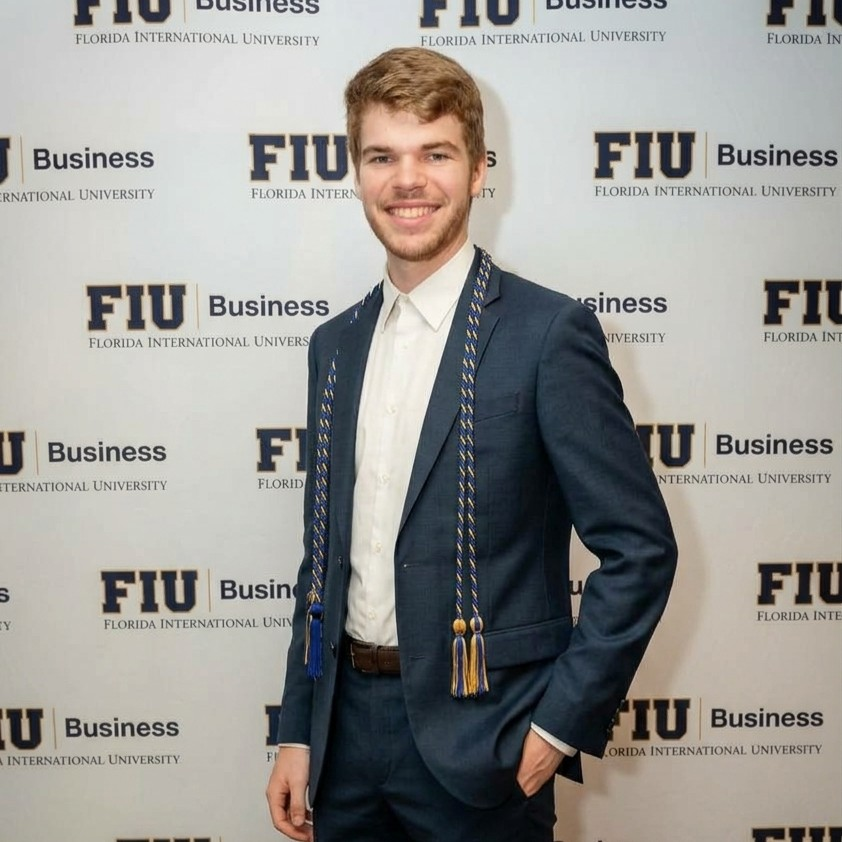
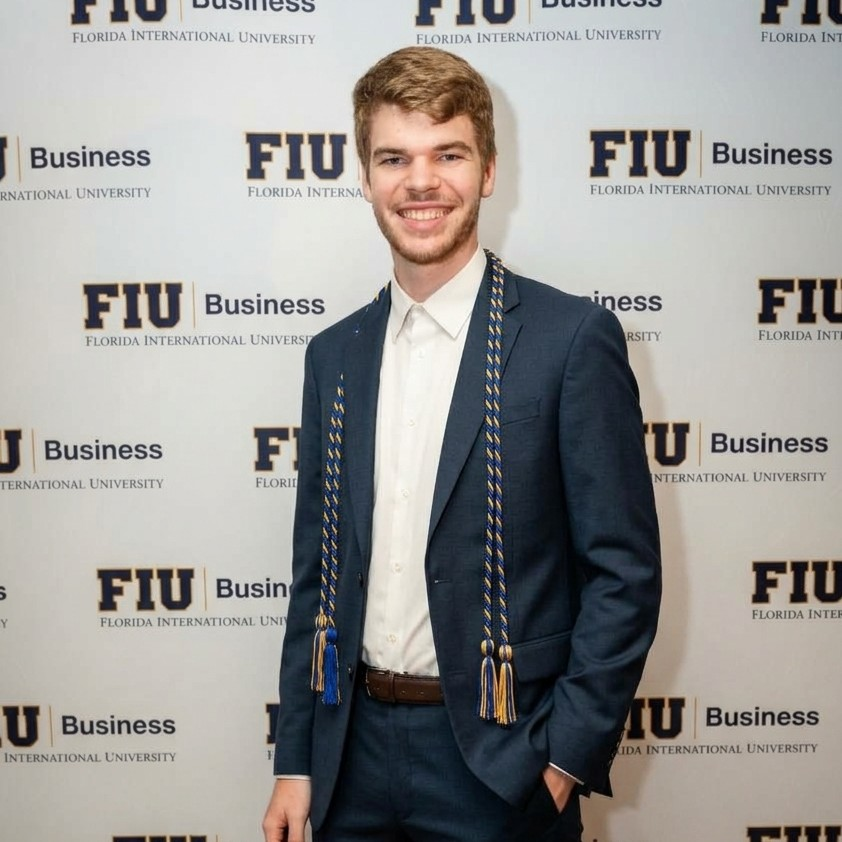
Pciture

diff --git a/education.html b/education.html
@@ -27,7 +27,7 @@
         <p class="deg">B.A. Business Administration and B.A. Education Sciences, May 2023</p>
         <p>Earning both degrees gave me business content and teacher training together.</p>
         <div style="margin-top:auto;padding-top:20px">
-          <div style="aspect-ratio:1/1;overflow:hidden;border-radius:8px"><img src="photos/uf-photo.png" alt="Photo of UF" style="display:block;width:100%;height:100%;object-fit:cover;object-position:center top;border-radius:8px"></div>
+          <div style="aspect-ratio:1/1;overflow:hidden;border-radius:8px"><img src="photos/uf-photo.jpg" alt="Photo of UF" style="display:block;width:100%;height:100%;object-fit:cover;object-position:center top;border-radius:8px"></div>
           <p class="todo">Add why you chose UF and a class or professor that stuck with you.</p>
         </div>
       </div>
